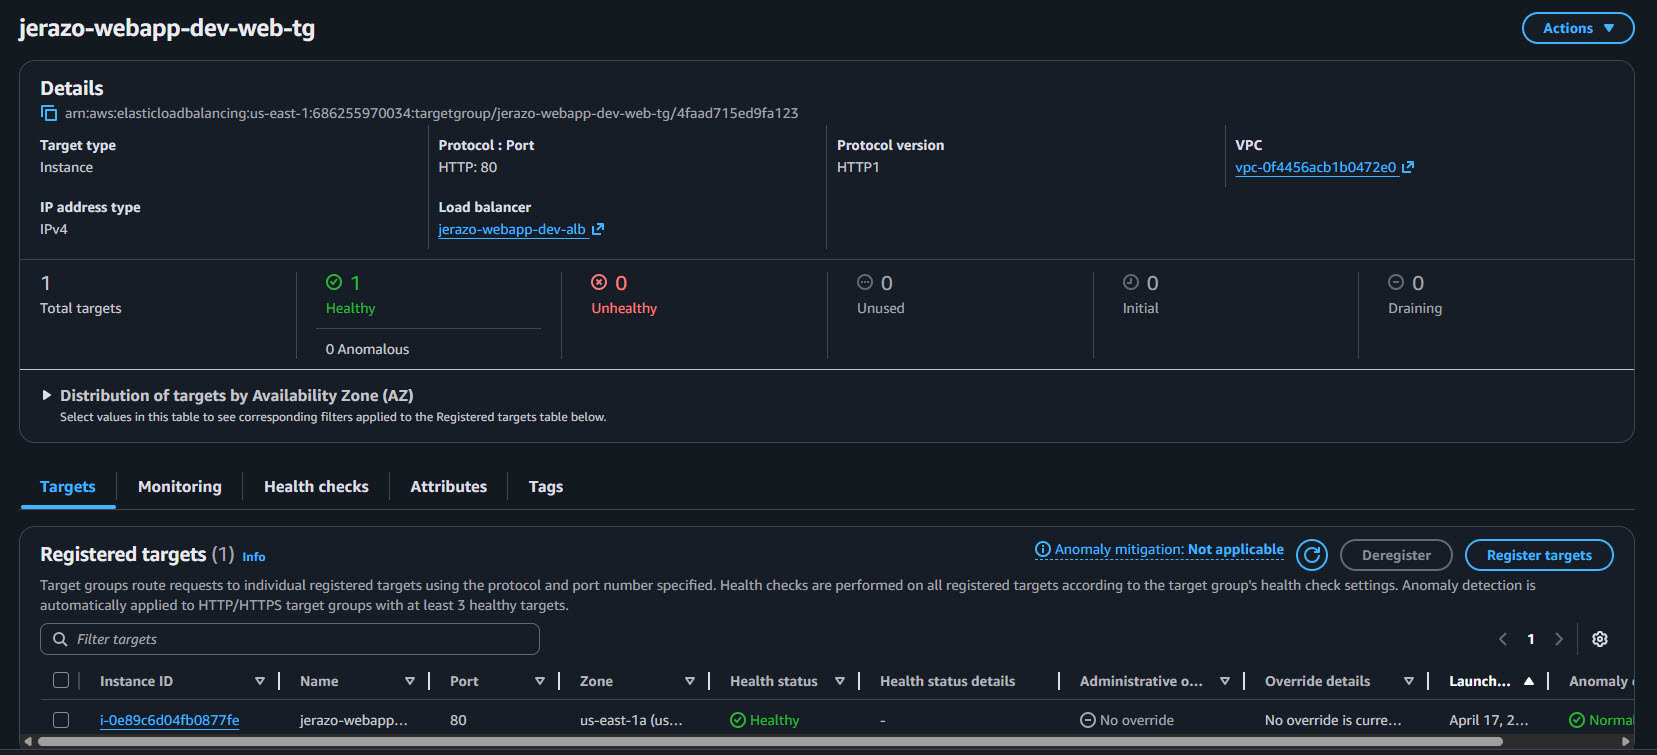
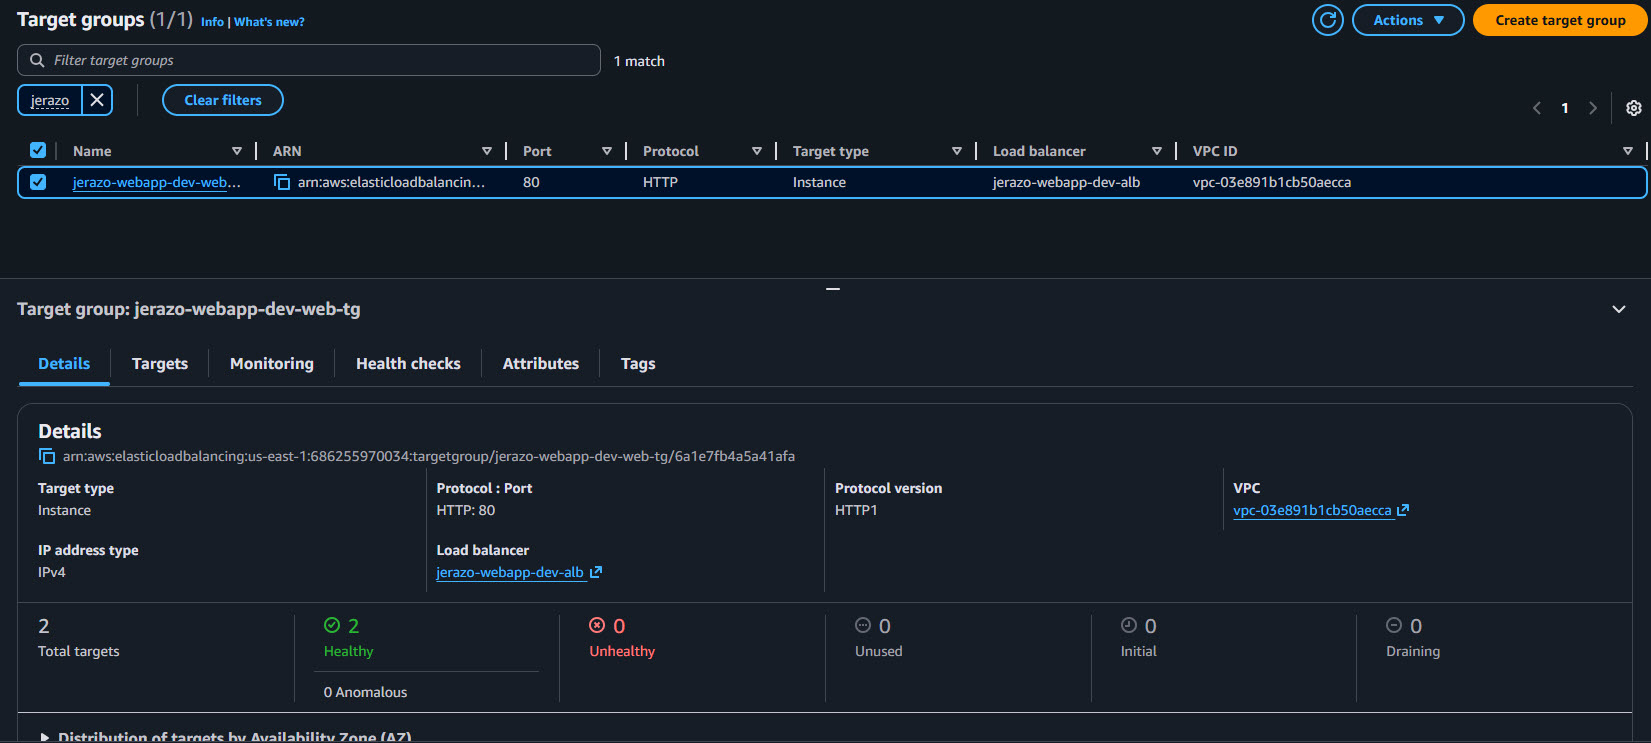
Add ALB and Auto Scaling Group with launch template

diff --git a/README.md b/README.md
@@ -1,4 +1,9 @@
+![Terraform](https://img.shields.io/badge/IaC-Terraform-blue)
+![AWS](https://img.shields.io/badge/Cloud-AWS-orange)
+
 # 🚀 Terraform AWS Web App Infrastructure
+
+Built a scalable, load-balanced AWS infrastructure using Terraform with Auto Scaling and Application Load Balancer.
 
 This project provisions a production-style AWS 2-tier architecture using Terraform, including networking, compute, load balancing, and database layers.
 
@@ -10,33 +15,47 @@ It demonstrates Infrastructure as Code (IaC) best practices such as modular desi
 
 This project deploys:
 
-- VPC with public and private subnets across two Availability Zones
-- Internet Gateway for public access
-- NAT Gateway for outbound access from private subnets
-- Application Load Balancer (ALB) for traffic distribution
-- EC2 instance(s) hosting a web application
-- RDS (MySQL) database in private subnets
-- Security Groups enforcing least-privilege access
-- Terraform remote state (S3 backend)
+- VPC with public and private subnets across multiple Availability Zones  
+- Internet Gateway for public access  
+- NAT Gateway for outbound internet access from private subnets  
+- Application Load Balancer (ALB) for distributing incoming traffic  
+- Auto Scaling Group (ASG) for scalable and self-healing compute  
+- EC2 instances launched via Launch Template  
+- RDS (MySQL/PostgreSQL) database in private subnets  
+- Security Groups enforcing least-privilege access  
+- Terraform remote state stored in S3
 
 ### Traffic Flow
 
 ```text
-
 Internet
-
-  ↓
-   
+↓
 [Application Load Balancer]
-
-  ↓
-   
-[EC2 Instances - Public Subnet]
-
-  ↓
-   
-[RDS Database - Private Subnet]
+↓
+[Target Group]
+↓
+[Auto Scaling Group]
+↓
+[EC2 Instances - Private Subnets]
+↓
+[RDS Database - Private Subnets]
 ```
+
+---
+
+## 🚀 Architecture Evolution
+
+### Initial Version
+- Single EC2 instance
+- Basic VPC networking
+- Direct access to application
+
+### Enhanced Version
+- Introduced Application Load Balancer
+- Implemented Launch Template and Auto Scaling Group
+- Enabled horizontal scaling and self-healing infrastructure
+- Moved compute layer to private subnets behind ALB
+
 
 ## 📁 Project Structure
 
@@ -121,22 +140,27 @@ After deployment, Terraform will output:
 - ALB DNS Name → Access your web application
 - VPC ID
 - Subnet IDs
-- EC2 Instance ID
-- RDS Endpoint (sensitive)
+- Auto Scaling Group Name
+- Launch Template ID
+
+Use the ALB DNS Name in your browser to access the deployed web application.
 
 ## 🔐 Security Design
-- RDS is deployed in private subnets (no public access)
-- EC2 only accepts traffic from the ALB security group
-- SSH access restricted to trusted IP only
-- Security groups enforce least-privilege access
+- ALB is publicly accessible and handles all inbound traffic  
+- EC2 instances are deployed in private subnets (no direct internet access)  
+- RDS database is isolated in private subnets  
+- Security groups restrict traffic between tiers (ALB → EC2 → RDS)  
+- SSH access is limited to trusted IP addresses only  
 
 ## 🧠 Key Concepts Demonstrated
-- Terraform module design and composition
-- AWS networking (VPC, subnets, routing)
-- Load balancing with ALB
-- Infrastructure separation (public vs private tiers)
-- Remote state management
-- Reusable and parameterized infrastructure
+- Terraform module design and reusable infrastructure  
+- AWS networking (VPC, subnets, routing, NAT Gateway)  
+- Load balancing with Application Load Balancer  
+- Auto Scaling Groups for high availability and scalability  
+- Infrastructure separation (public vs private tiers)  
+- Launch Templates for standardized EC2 provisioning  
+- Remote state management using S3
+- Secure architecture using least-privilege principles 
 
 ## 📸 Screenshots
 
@@ -148,14 +172,14 @@ After deployment, Terraform will output:
 ![ALB Screenshot](images/alb_target_group_dashboard.jpg)
 
 ### Browser hitting ALB DNS
-![Brower to ALB DNS](images/browser_to_dns.jpg)
+![Browser to ALB DNS](images/browser_to_dns.jpg)
 
 ### Terraform apply output
 ![Outputs in CMD](images/outputs.jpg)
 
 ---
 
-## 💼 Completed Summary
+## 💼 Project Summary
 
 Built a modular Terraform project to provision a production-style AWS infrastructure including VPC, subnets, security groups, EC2, Application Load Balancer, and RDS. Implemented environment-based configuration, secure network segmentation, and reusable infrastructure components.
 